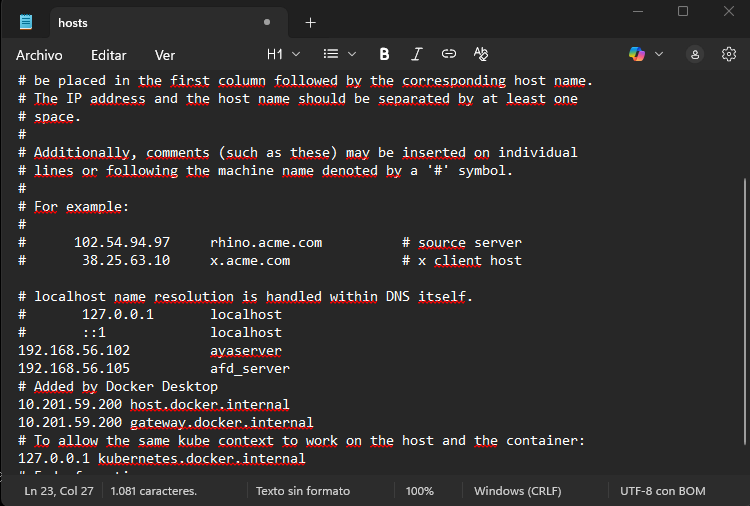
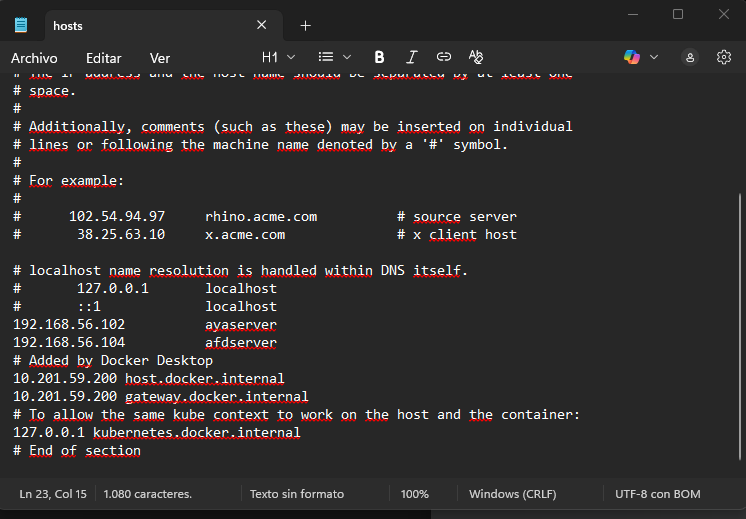
pr0202

diff --git a/ut02/pr0202/pr0202.md b/ut02/pr0202/pr0202.md
@@ -47,12 +47,19 @@ Para comprobarlo, podemos ejecutar el comando `sudo hostnamectl`. Esto nos dará
 
 ![Captura apartado 6](pr0202_Capturas/pr0202_6.png)
 
+Para comprobar si lo he hemos hecho bien, podemos usar el comando `hostname`. Si vemos que nuestro nombre de host no ha cambiado, deberemos usar el comando `sudo hostnamectl set-hostname afd_server` para cambiar el nombre de host.
+
 5.
 
 Para resolver localmente el nombre del servidor deberemos ir al archivo de configuración en C:\Windows\System32\Drivers\etc\hosts
 Ahí, al final del documento escribiremos la ip de nuestra máquina virtual con el nombre de host.
 
 ![Captura apartado 7](pr0202_Capturas/pr0202_7.png)
+
+Ahora si intentamos conectarnos por ssh pero en vez de poner la ip ponemos el nombre de host, funcionará como si hubiesemos escrito la ip
+
+![Captura apartado 8](pr0202_Capturas/pr0202_8.png)
+
 
 
 #### 2. Creación del usuario y conexión SS
